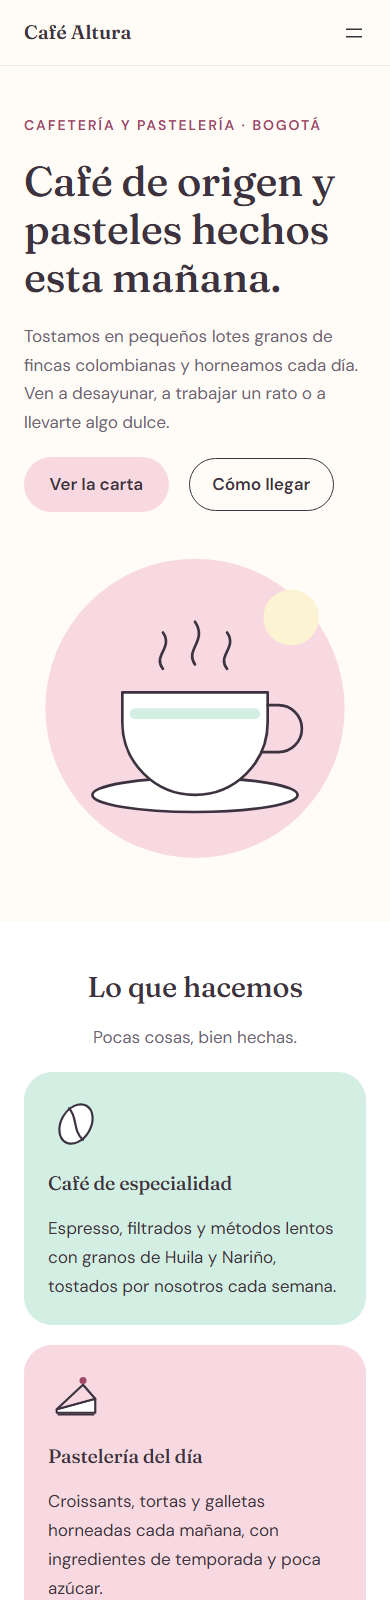
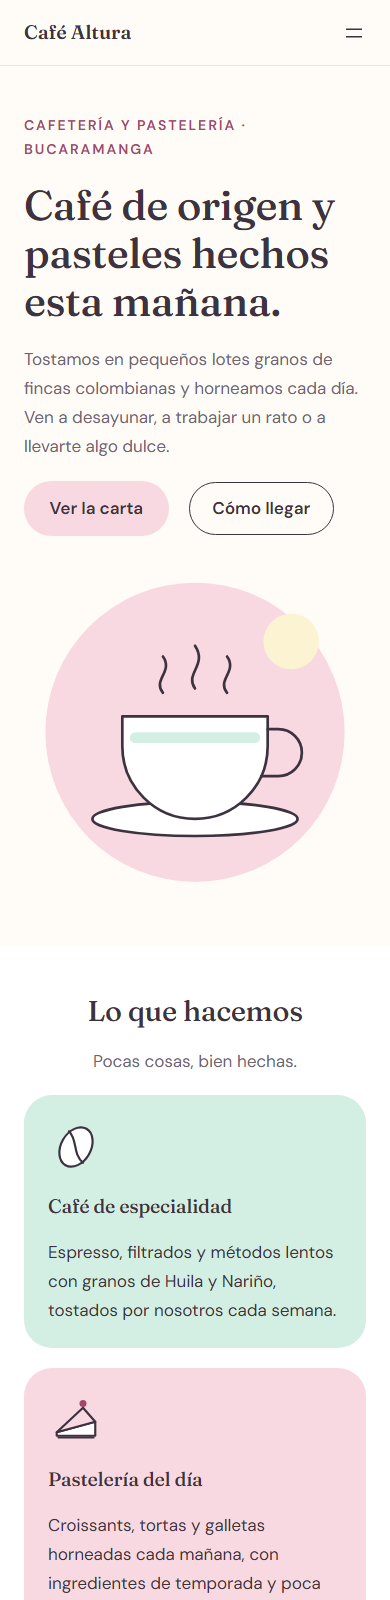
Café Altura: ubicación en Bucaramanga y sin correo de contacto inventado

Changed region(s): [[0.0615, 0.0625, 0.9231, 0.5625], [0.0615, 0.5938, 0.9538, 1.0], [0.8308, 0.2812, 0.8615, 0.3125]]

diff --git a/laboratorio6/wordpress/contenido/visitanos.html b/laboratorio6/wordpress/contenido/visitanos.html
@@ -1,5 +1,5 @@
 <!-- wp:paragraph {"textColor":"suave"} -->
-<p class="has-suave-color has-text-color">Estamos en Chapinero, Bogotá. No hace falta reservar; para grupos de más de ocho personas, escríbenos antes.</p>
+<p class="has-suave-color has-text-color">Estamos en Bucaramanga, Santander. No hace falta reservar; para grupos de más de ocho personas, avísanos en la barra con un día de anticipación.</p>
 <!-- /wp:paragraph -->
 
 <!-- wp:columns {"align":"wide"} -->
@@ -18,18 +18,16 @@
 <!-- wp:column -->
 <div class="wp-block-column"><!-- wp:group {"className":"tarjeta","backgroundColor":"rosa","layout":{"type":"default"}} -->
 <div class="wp-block-group tarjeta has-rosa-background-color has-background"><!-- wp:heading {"level":3} -->
-<h3 class="wp-block-heading">Contacto</h3>
+<h3 class="wp-block-heading">Dónde estamos</h3>
 <!-- /wp:heading -->
 
 <!-- wp:paragraph -->
-<p>Chapinero, Bogotá<br>Correo: <a href="mailto:hola@javier.life">hola@javier.life</a></p>
+<p>Bucaramanga, Santander</p>
 <!-- /wp:paragraph -->
 
-<!-- wp:buttons -->
-<div class="wp-block-buttons"><!-- wp:button {"className":"is-style-outline"} -->
-<div class="wp-block-button is-style-outline"><a class="wp-block-button__link wp-element-button" href="mailto:hola@javier.life?subject=Reserva%20para%20grupo">Reservar para un grupo</a></div>
-<!-- /wp:button --></div>
-<!-- /wp:buttons --></div>
+<!-- wp:paragraph -->
+<p>Reservas para grupos: pregúntanos en la barra.</p>
+<!-- /wp:paragraph --></div>
 <!-- /wp:group --></div>
 <!-- /wp:column --></div>
 <!-- /wp:columns -->

diff --git a/laboratorio6/wordpress/contenido/inicio.html b/laboratorio6/wordpress/contenido/inicio.html
@@ -2,7 +2,7 @@
 <div class="wp-block-group alignfull has-base-background-color has-background" style="padding-top:var(--wp--preset--spacing--50);padding-bottom:var(--wp--preset--spacing--50)"><!-- wp:columns {"verticalAlignment":"center","align":"wide"} -->
 <div class="wp-block-columns alignwide are-vertically-aligned-center"><!-- wp:column {"verticalAlignment":"center","width":"55%"} -->
 <div class="wp-block-column is-vertically-aligned-center" style="flex-basis:55%"><!-- wp:paragraph {"className":"etiqueta","textColor":"acento","fontSize":"pequeno"} -->
-<p class="etiqueta has-acento-color has-text-color has-pequeno-font-size">Cafetería y pastelería · Bogotá</p>
+<p class="etiqueta has-acento-color has-text-color has-pequeno-font-size">Cafetería y pastelería · Bucaramanga</p>
 <!-- /wp:paragraph -->
 
 <!-- wp:heading {"level":1} -->
@@ -152,7 +152,7 @@
 <!-- /wp:heading -->
 
 <!-- wp:paragraph {"align":"center","textColor":"suave"} -->
-<p class="has-text-align-center has-suave-color has-text-color">Estamos en Chapinero, Bogotá. Abrimos todos los días desde temprano.</p>
+<p class="has-text-align-center has-suave-color has-text-color">Estamos en Bucaramanga. Abrimos todos los días desde temprano.</p>
 <!-- /wp:paragraph -->
 
 <!-- wp:buttons {"layout":{"type":"flex","justifyContent":"center"}} -->

diff --git a/laboratorio6/wordpress/tema/parts/footer.html b/laboratorio6/wordpress/tema/parts/footer.html
@@ -24,7 +24,7 @@
 <!-- /wp:paragraph -->
 
 <!-- wp:paragraph -->
-<p>Chapinero, Bogotá<br><a href="mailto:hola@javier.life">hola@javier.life</a></p>
+<p>Bucaramanga, Santander</p>
 <!-- /wp:paragraph --></div>
 <!-- /wp:column --></div>
 <!-- /wp:columns -->
